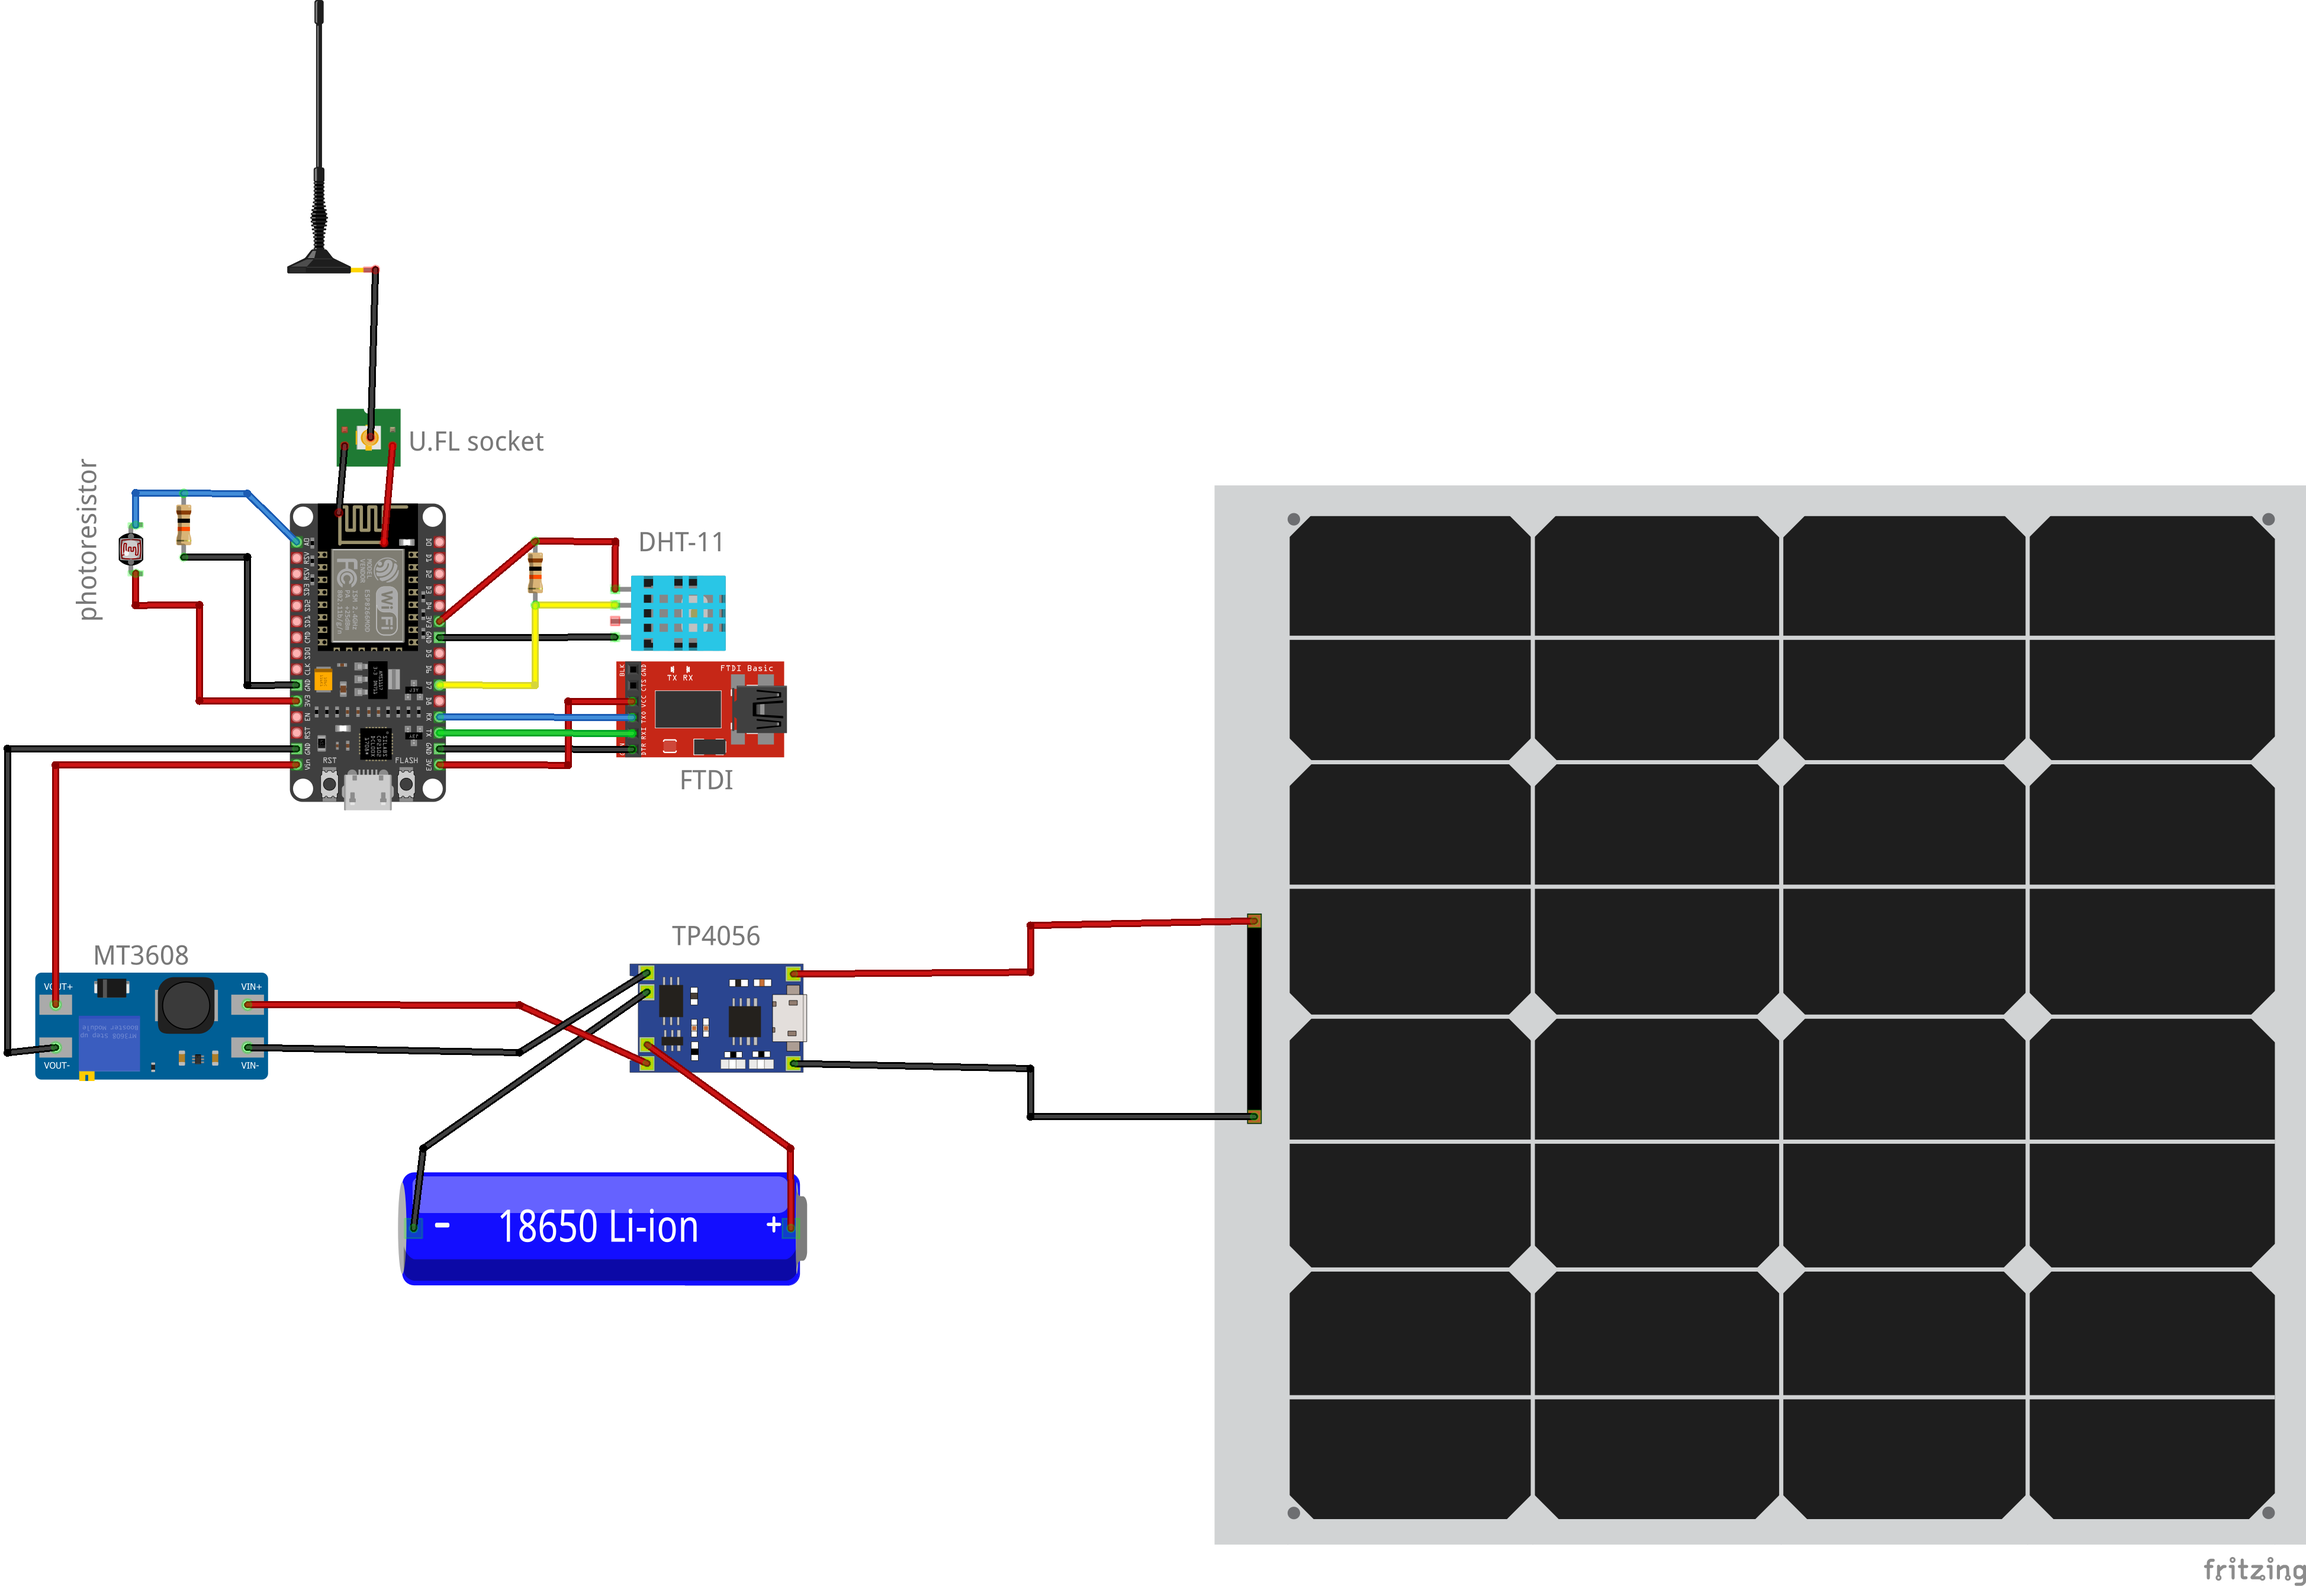
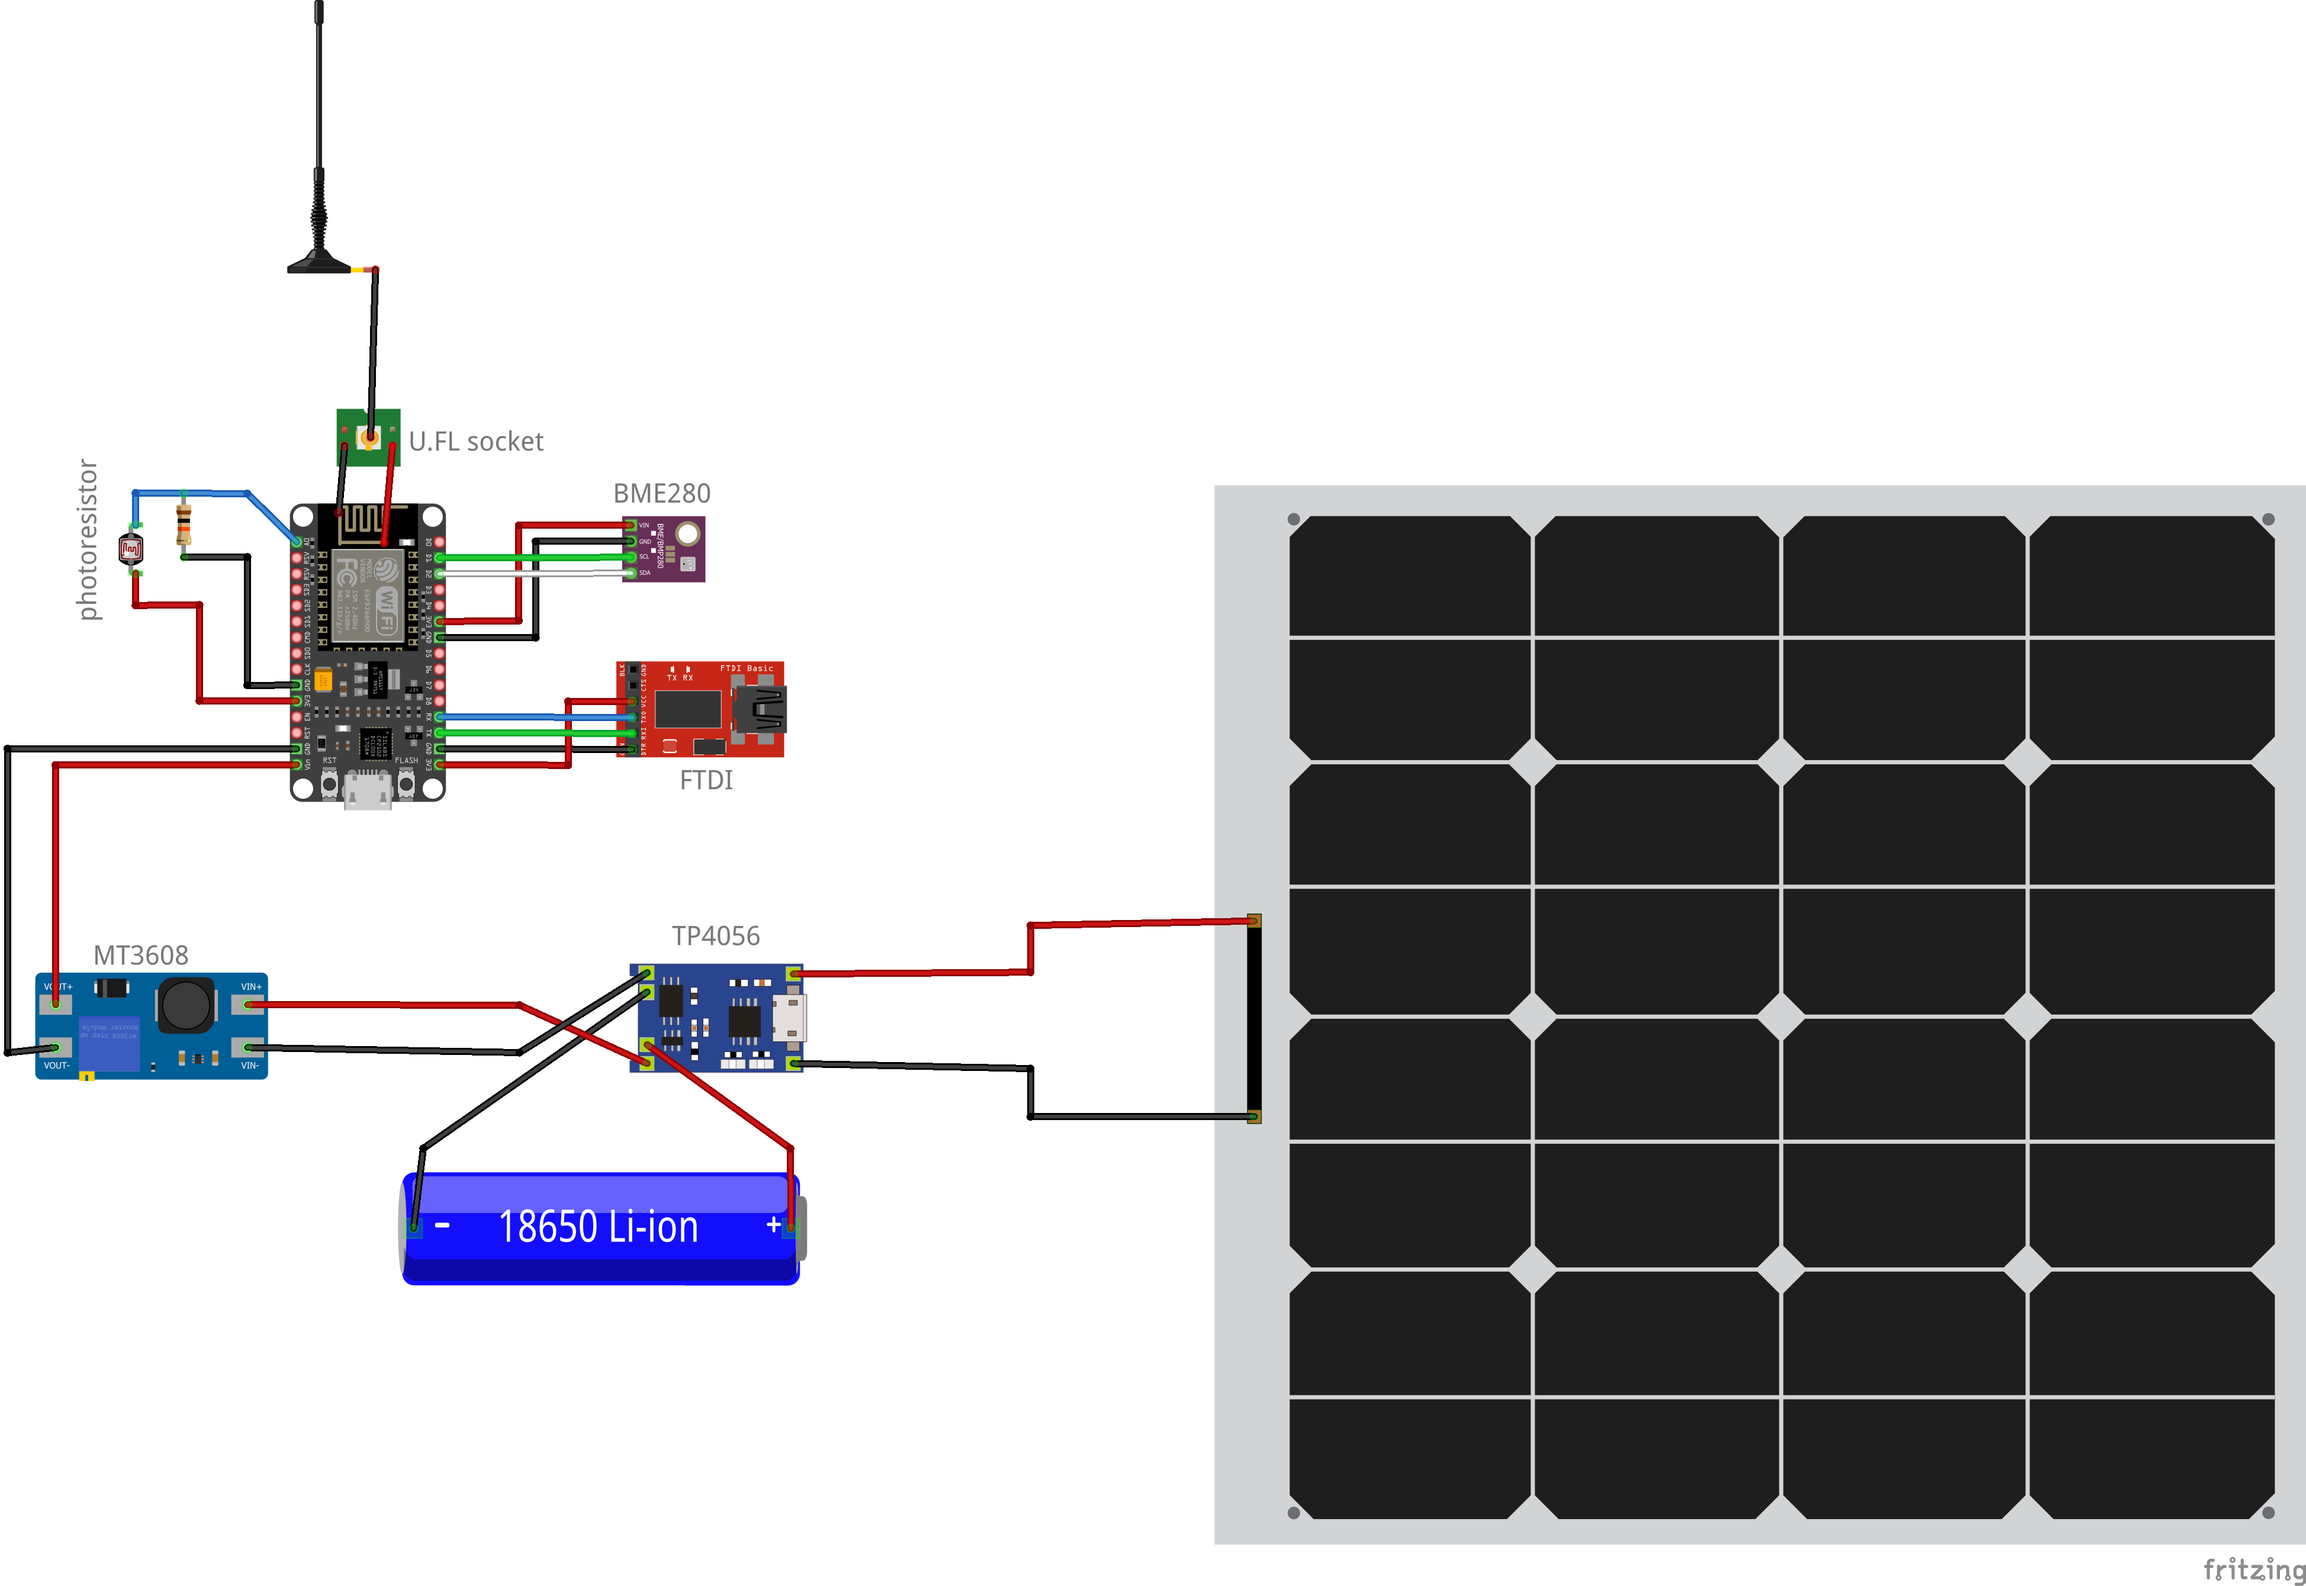
docs: Adding schematics for BME280

Changed region(s): [[0.1864, 0.3098, 0.3417, 0.4337]]

diff --git a/README.md b/README.md
@@ -5,7 +5,7 @@
 
 ## Schematic
 EasyEDA schematics
-![schematic](img/Schematic_espweather_2024-09-05.png)
+![schematic](img/Schematic_espweather_2025-04-03.png)
 
 Fritzing diagram
 ![schematic](img/schematics_bb.png)
